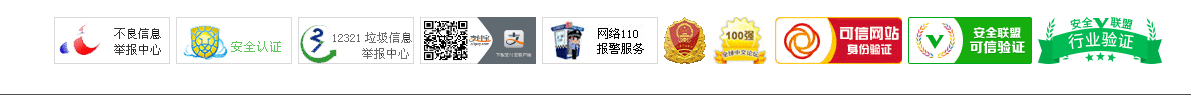
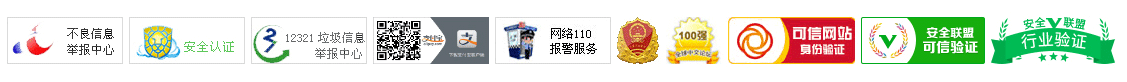
实现footer

diff --git a/src/sprite.css b/src/sprite.css
@@ -1,65 +1,65 @@
 .i-down{
-    background-image: url("imgs/sprite20170213_09_21_34.png");
+    background-image: url("imgs/sprite20170214_01_50_23.png");
     background-position: -292px -157px;
     width: 11px;
     height: 7px;
 }
 .i-f_1{
-    background-image: url("imgs/sprite20170213_09_21_34.png");
+    background-image: url("imgs/sprite20170214_01_50_23.png");
     background-position: -244px -157px;
     width: 20px;
     height: 19px;
 }
 .i-f_2{
-    background-image: url("imgs/sprite20170213_09_21_34.png");
+    background-image: url("imgs/sprite20170214_01_50_23.png");
     background-position: -269px -157px;
     width: 18px;
     height: 19px;
 }
 .i-f_3{
-    background-image: url("imgs/sprite20170213_09_21_34.png");
+    background-image: url("imgs/sprite20170214_01_50_23.png");
     background-position: -333px -126px;
     width: 21px;
     height: 22px;
 }
 .i-f_4{
-    background-image: url("imgs/sprite20170213_09_21_34.png");
+    background-image: url("imgs/sprite20170214_01_50_23.png");
     background-position: -244px -126px;
     width: 26px;
     height: 26px;
 }
 .i-kefu{
-    background-image: url("imgs/sprite20170213_09_21_34.png");
+    background-image: url("imgs/sprite20170214_01_50_23.png");
     background-position: -304px -126px;
     width: 24px;
     height: 24px;
 }
 .i-logo{
-    background-image: url("imgs/sprite20170213_09_21_34.png");
+    background-image: url("imgs/sprite20170214_01_50_23.png");
     background-position: 0px 0px;
     width: 239px;
     height: 112px;
 }
 .i-qq{
-    background-image: url("imgs/sprite20170213_09_21_34.png");
+    background-image: url("imgs/sprite20170214_01_50_23.png");
     background-position: -275px -126px;
     width: 24px;
     height: 24px;
 }
 .i-qqgroup{
-    background-image: url("imgs/sprite20170213_09_21_34.png");
+    background-image: url("imgs/sprite20170214_01_50_23.png");
     background-position: -244px 0px;
     width: 121px;
     height: 121px;
 }
 .i-tel{
-    background-image: url("imgs/sprite20170213_09_21_34.png");
+    background-image: url("imgs/sprite20170214_01_50_23.png");
     background-position: 0px -243px;
     width: 176px;
     height: 38px;
 }
 .i-wechat{
-    background-image: url("imgs/sprite20170213_09_21_34.png");
+    background-image: url("imgs/sprite20170214_01_50_23.png");
     background-position: 0px -117px;
     width: 121px;
     height: 121px;

diff --git a/src/components/footer/footer.css b/src/components/footer/footer.css
@@ -82,5 +82,6 @@
 #footer .i-certification{
 	background: url(../../imgs/certification.png);
 	width: 1200px;
-	height: 100px;
+	height: 80px;
+	background-size:100% 100%;
 }
